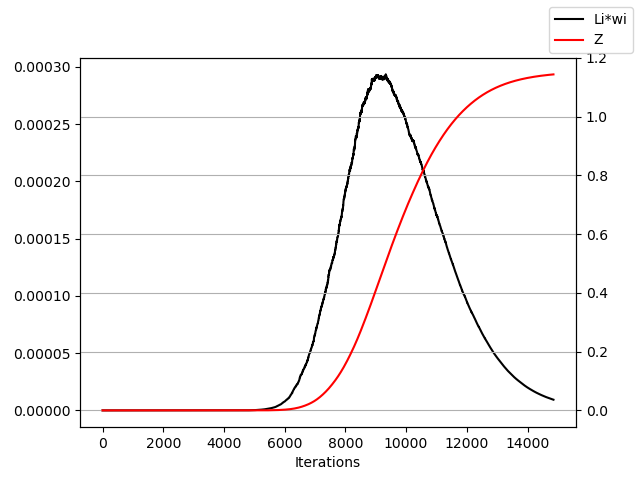
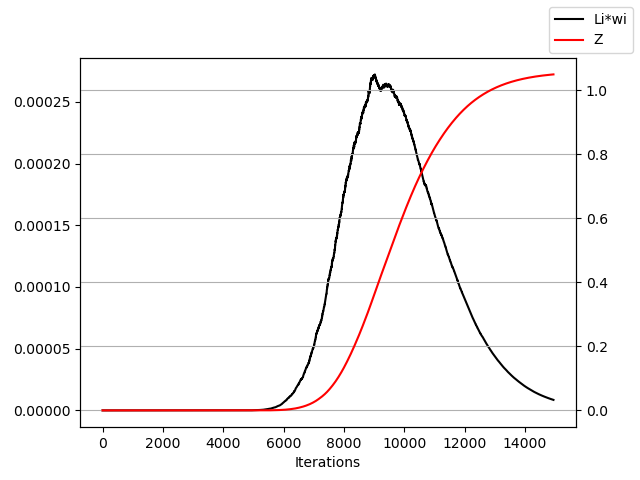
adjusted normal proposal

diff --git a/nested_sampling.py b/nested_sampling.py
@@ -51,10 +51,6 @@ def log_prior(x, dim, boundary=10):
     dim : int
         Dimension of the parameter space.
 
-    init: bool
-        You can choose to use the funcion to initialize the likelihood of the live points (True) or
-        to generate just a new likelihood value (False)
-
     boundary : init, optional
         Boundary of the parameter space.
     '''
@@ -123,23 +119,16 @@ def normal_proposal(x, dim, logLmin, survivor, std):
     accepted = 0
     rejected = 0
     shrink = 0
+    n = 0
+    new_line = np.zeros(dim+2, dtype=np.float64)
     while True:
-        #if counter > 200:
-            #shrink += 0.001
-            #if shrink > 0.99:
-                #shrink = 0.98
-            #counter = 0
-        #zeros = np.zeros(dim)
-        #diag = np.diag(np.ones(dim))  + np.diag(np.ones(dim) - shrink)
-        new_line = np.zeros(dim+2, dtype=np.float64)
         for i in range(len(new_line[:dim])):
             new_line[:dim][i] = np.random.normal(survivor[i], std)
-
-        #new_line[:dim] = survivor + np.random.multivariate_normal(zeros, diag)
-
-        for i in  range(len(new_line[:dim])):
             while np.abs(new_line[:dim][i]) > 10.:
                 new_line[:dim][i] = survivor[i] + np.random.normal(0, std)
+        #for i in  range(len(new_line[:dim])):
+            #while np.abs(new_line[:dim][i]) > 10.:
+                #new_line[:dim][i] = survivor[i] + np.random.normal(0, std)
 
         new_log_prior = log_prior(new_line[:dim], dim)
         new_line[dim] = new_log_prior[0] # I choose the first since the priors are all the same
@@ -151,9 +140,12 @@ def normal_proposal(x, dim, logLmin, survivor, std):
                 rejected += 1
                 counter += 1
             if new_line[dim+1] > logLmin:
+                n += 1
                 accepted += 1
-                end = time.time()
-                return new_line, (end-start), accepted, rejected
+                new_line[:dim] = survivor[:dim]
+                if n == dim:
+                    end = time.time()
+                    return new_line, (end-start), accepted, rejected
 
 def nested_samplig(live_points, dim, resample_function=uniform_proposal, verbose=False):
     '''Nested Sampling by Skilling (2006)
@@ -161,7 +153,7 @@ def nested_samplig(live_points, dim, resample_function=uniform_proposal, verbose
 
     N = live_points.shape[0]
     f = np.log(0.01)
-    Area = []; Zlog = []; logL_worst = []; T = []; A = []; prior_mass = [] # lists for plots
+    Area = []; Zlog = []; logL_worst = []; T = []; prior_mass = [] # lists for plots
 
     logZ = -np.inf
     parameters = np.random.uniform(-10, 10, size=(N, dim))
@@ -181,8 +173,8 @@ def nested_samplig(live_points, dim, resample_function=uniform_proposal, verbose
         if multiplier_steps > 170:
             multiplier -= 0.10
             multiplier_steps = 0
-            if multiplier < 0.1:
-                multiplier = 0.1
+        if multiplier < 0.1:
+            multiplier = 0.1
         prior_mass.append(logwidth)
         Lw_idx = np.argmin(live_points[:, dim+1])
         logLw = live_points[Lw_idx, dim+1]
@@ -190,10 +182,7 @@ def nested_samplig(live_points, dim, resample_function=uniform_proposal, verbose
 
         survivors = np.delete(live_points, Lw_idx, axis=0)
         std = multiplier * np.std(survivors[:dim])
-        #print('OOOOOOOOOOOOOOOOOOO', std)
-        #std = multiplier * np.abs(np.mean(survivors[:dim], axis = 0))
-        #print(steps, std)
-        #k = survivors.shape[0]
+        k = survivors.shape[0]
         survivor = live_points[Lw_idx,:dim]
 
         logL_worst.append(logLw)
@@ -208,12 +197,15 @@ def nested_samplig(live_points, dim, resample_function=uniform_proposal, verbose
         accepted += acc
         rejected += rej
         survivor = new_sample[:dim]
-        #A.append(a)
         T.append(t)
         live_points[Lw_idx] = new_sample
         logwidth -= 1.0/N
         if max_log_l - steps/N < f + logZ:
             break
+
+    final_term = np.log(np.exp(live_points[:,dim+1]).sum()*np.exp(-steps/N)/N)
+    logZ = np.logaddexp(logZ, final_term)
+
     return np.exp(Area), np.exp(Zlog), np.exp(logL_worst), prior_mass, np.exp(logZ), T, steps, accepted, rejected
 
 if __name__ == "__main__":
@@ -243,7 +235,7 @@ if __name__ == "__main__":
     n = args.num_live_points
     dim = args.dim
     boundary = args.boundary
-    for d in tqdm(range(1,dim+1)):
+    for d in tqdm(range(dim,dim+1)):
         live_points = np.zeros((n, d+2), dtype=np.float64) # the first dim columns for each row represents my multidimensional array of parameters
         if args.proposal == 0:
             prop = 'Uniform'
@@ -277,7 +269,7 @@ if __name__ == "__main__":
             plt.ylabel('Resampling time')
             plt.title('Time for resampling')
             plt.savefig(f'results/images/{args.proposal}/resampling_time_{d}.png')
-
+            plt.show()
             plt.close('all')
 
         end = time.time()
